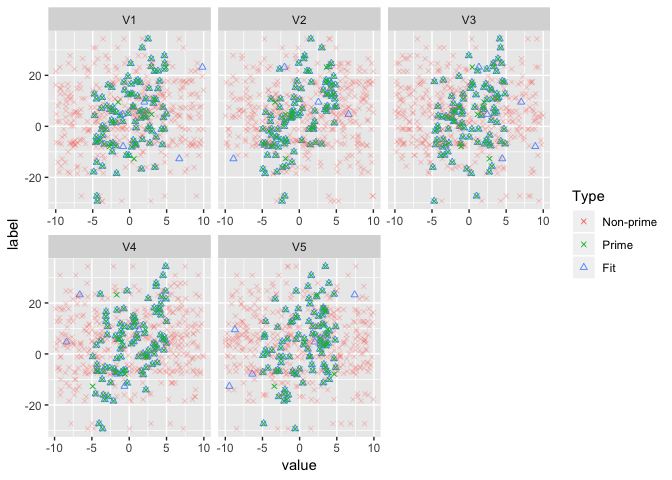
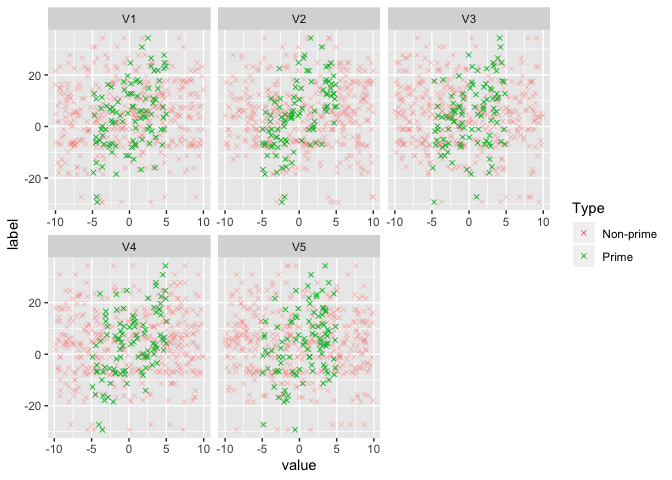
Edit figures in README

diff --git a/README.md b/README.md
@@ -6,7 +6,7 @@
 BayesianMIR
 ===========
 
-This is a README file of the R package *BayesianMIR*. In our paper, not yet available, we develop the Bayesian multi-instance regression (BMIR) model, applied to the multiple instance regression problem. More details about the structure of data and the Bayesian modeling, see our upcoming paper.
+This is a README file of the R package *BayesianMIR*. In our paper, not yet available, we develop the Bayesian multiple instance regression model we call BMIR, applied to the multiple instance regression problem. For more details about the structure of data and the Bayesian modeling, we refer readers to our upcoming paper.
 
 <!-- We assume the primary instance assumption used in @RayPage2005, that is, there is one primary instance explaining the bag-level response variable. -->
 Installation of the package
@@ -28,11 +28,11 @@ If you come across a problem like [this](https://github.com/r-lib/remotes/issues
 A basic example of using the package
 ------------------------------------
 
-### Generate the Monte Carlo Markov Chains (model estimation)
+We give a toy example to apply the main function `BMIR_sampler`, which performs random sampling from the joint posterior distribution.
 
-We give a toy example to apply the main function `BMIR_sampler` to do sampling from the posterior distribution.
+### Generate data
 
-To do it, we first generate multiple instance regression data.
+We first generate simulated data under the bag-instance structure.
 
 ``` r
 rm(list = ls())
@@ -65,7 +65,9 @@ label <- unlist(lapply(bag, function(feature){
 label <- label + rnorm(nsample, mean = 0, sd = 1)
 ```
 
-For convenience, we use `Tidy_dataset` function to tidy data.
+### Exploratory data analysis
+
+To facilitate our analysis, we use `Tidy_dataset` function to tidy data up. The first 100 samples are used for model estimation, and the others will be test samples to validate the fitted model.
 
 ``` r
 library(BayesianMIR)
@@ -76,18 +78,35 @@ tidydata <- Tidy_dataset(label = label[1:100],
 newtidydata <- Tidy_dataset(feature_inst = bag[-(1:100)])
 ```
 
-Using `MISummarize`, we can print the basic information about the dataset.
+Applying `MISummarize` to the output of `Tidy_dataset`, we can get the basic information about the dataset:
+
+-   the number of bags,
+-   the number of features,
+-   (summary of) the numbers of instances in bags (or bag sizes).
 
 ``` r
 MISummarize(tidydata)
 #> Number of bags : 100
-#> Number of features : 5(V1, V2, V3, V4, V5,...)
+#> Number of features : 5 (V1, V2, V3, V4, V5)
 #> Number of instances in bags : 
 #>    Min. 1st Qu.  Median    Mean 3rd Qu.    Max. 
 #>       5       5       5       5       5       5
 ```
 
-We can obtain the MCMC samples using `BMIR_sampler`.
+A scatter plot for multiple instances is given below using `MIScatterPlot`. Each dimension of covariates is plotted on the x-axis along with bag-level responses (labels) on the y-axis. If you know which instance(s) is(are) primary in each bag, then they would be distinguished from non-primary instances.
+
+``` r
+MIScatterPlot(tidydata = tidydata, 
+              bag_size = 5,
+              true_primary = lapply(1:tidydata$nsample, function(x) rep(c(T,F), c(1, ninst - 1)))
+)
+```
+
+![](README-unnamed-chunk-6-1.png)
+
+### Generate the Monte Carlo Markov Chains (model estimation)
+
+We can obtain the MCMC samples using `BMIR_sampler`. By default, the first halves are discarded as the burn-in steps. You can thin the samples by using `nthin` option and get multiple chains by using `nchain` option. Please refer to the help page of the function to see what it returns.
 
 ``` r
 ## BMIR model fitting
@@ -95,12 +114,12 @@ ntotal <- 20000
 BMIR_fit <- BMIR_sampler(ntotal = ntotal, tidydata = tidydata)
 #> =============================================================
 #> Multiple Instance Bayesian Regression
-#> Elapsed time for chain1=0.031 mins: MCMC sampling is done!
+#> Elapsed time for chain1=0.034 mins: MCMC sampling is done!
 ```
 
-### Visualization
+### Visualization after model fitting
 
-Using the fitted model, a scatter plot for multiple instance regression can be provided as follows.
+Using the fitted model, you can specify the estimated status of being a primary instance on the scatter plot provided by `MIScatterPlot`. You can check how many overlaps are between the estimated and the truth.
 
 ``` r
 MIScatterPlot(tidydata = tidydata, 
@@ -110,24 +129,13 @@ MIScatterPlot(tidydata = tidydata,
 )
 ```
 
-![](README-unnamed-chunk-7-1.png)
+![](README-unnamed-chunk-8-1.png)
 
-Using slightl modified `ggmcmc::ggs_density` function, we can have the Bayesian inference.
+By slightly modifying `ggs_density` function from the package `ggmcmc`, we can show one of the Bayesian inferences that BMIR does provide: the highest posterior density intervals of parameters.
 
 ``` r
 # install.packages("ggmcmc")
 library("ggmcmc")
-#> Loading required package: dplyr
-#> 
-#> Attaching package: 'dplyr'
-#> The following objects are masked from 'package:stats':
-#> 
-#>     filter, lag
-#> The following objects are masked from 'package:base':
-#> 
-#>     intersect, setdiff, setequal, union
-#> Loading required package: tidyr
-#> Loading required package: ggplot2
 ggs_density <- function (D, ncol, family = NA, rug = FALSE, hpd = FALSE, greek = FALSE) 
   ## - ncol is added!
   ## - ci -> ggmcmc::ci
@@ -175,7 +183,7 @@ ggs_density <- function (D, ncol, family = NA, rug = FALSE, hpd = FALSE, greek =
 ggs_mcmc <- ggmcmc::ggs(BMIR_fit$mcmclist)
 ggs_mcmc$Parameter <- factor(ggs_mcmc$Parameter, labels = c(paste0("coef", 1:(nfeature + 1)), "sig2_error"))
 ggs_density(ggs_mcmc %>% 
-              filter(Iteration > ntotal * 0.5), 
+              filter(Iteration > max(Iteration) / 2), 
             ncol = 2,
             hpd = TRUE) + 
   geom_vline(data = data.frame(Parameter = c(paste0("coef", 1:(nfeature + 1)), "sig2_error"),
@@ -184,32 +192,19 @@ ggs_density(ggs_mcmc %>%
   labs(x = "Value", y = "Density") + 
   theme(axis.text.y = element_blank(),
         axis.ticks.y = element_blank())
-#> Warning: Groups with fewer than two data points have been dropped.
-
-#> Warning: Groups with fewer than two data points have been dropped.
-
-#> Warning: Groups with fewer than two data points have been dropped.
-
-#> Warning: Groups with fewer than two data points have been dropped.
-
-#> Warning: Groups with fewer than two data points have been dropped.
-
-#> Warning: Groups with fewer than two data points have been dropped.
-
-#> Warning: Groups with fewer than two data points have been dropped.
 ```
 
-![](README-unnamed-chunk-8-1.png)
+![](README-unnamed-chunk-9-1.png)
 
 ### Prediction in new bags
 
-When new bags (i.e. without labels) are given, we can predict both labels and primary instances using `predict.BMIR`.
+When new bags are given, BMIR can both predict labels and identify primary instances using `predict.BMIR`. By default, `predict.BMIR` depends on `randomForest` function from the package `randomForest`, which helps identifying primary instances in new bags. If you specify `k` (the number of primary instances in each new bag) larger than 1, then the selected primary instances will be aggregated by their average.
 
 ``` r
 pred_fit <- predict.BMIR(BMIRchain = BMIR_fit$mcmclist$Chain1, 
                          pip = BMIR_fit$pip[,1], 
                          tidydata = tidydata, 
-                         newtidydata = newtidydata, 
+                         newtidydata = newtidydata,
                          k = 1)
 ```
 
@@ -220,10 +215,9 @@ ggplot(data = data.frame(pred = pred_fit$newtidydata$label,
                          true = label[-(1:100)]), 
        mapping = aes(x = pred, y = true)) + 
   geom_point() + geom_abline(intercept = 0, slope = 1, color = "red")
-#> Warning: Removed 100 rows containing missing values (geom_point).
 ```
 
-![](README-unnamed-chunk-10-1.png)
+![](README-unnamed-chunk-11-1.png)
 
 Notes
 -----
